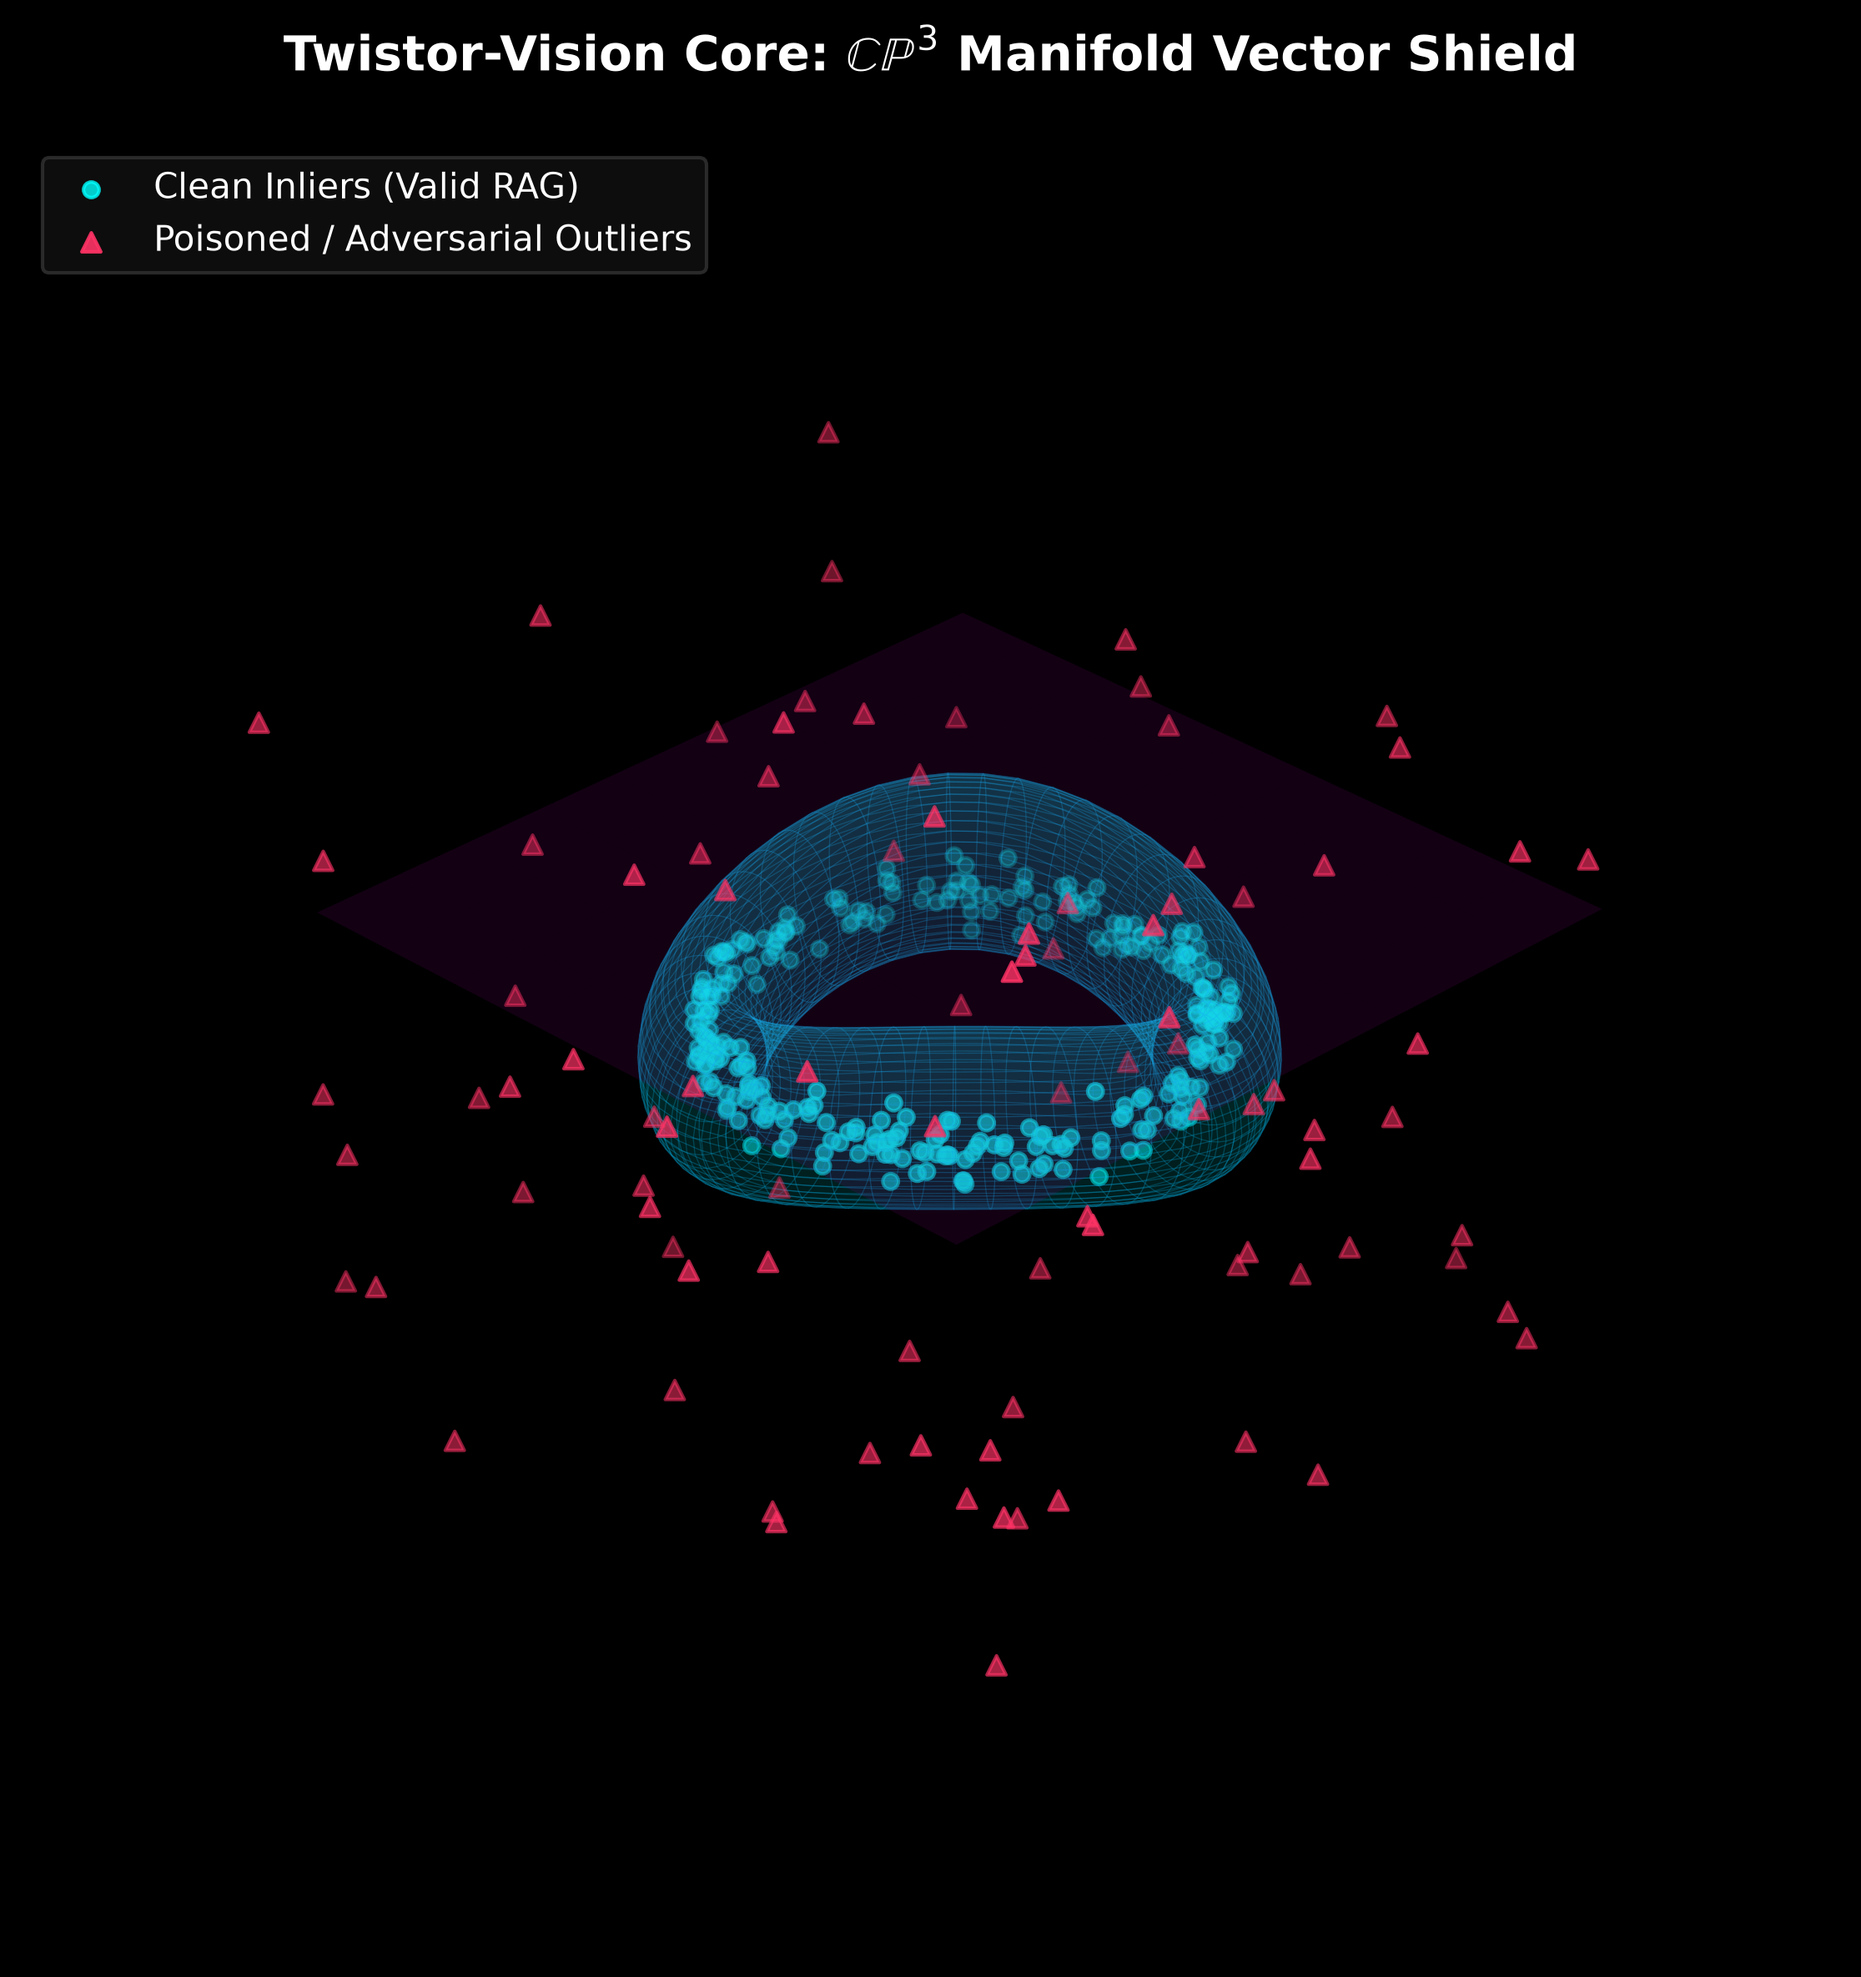
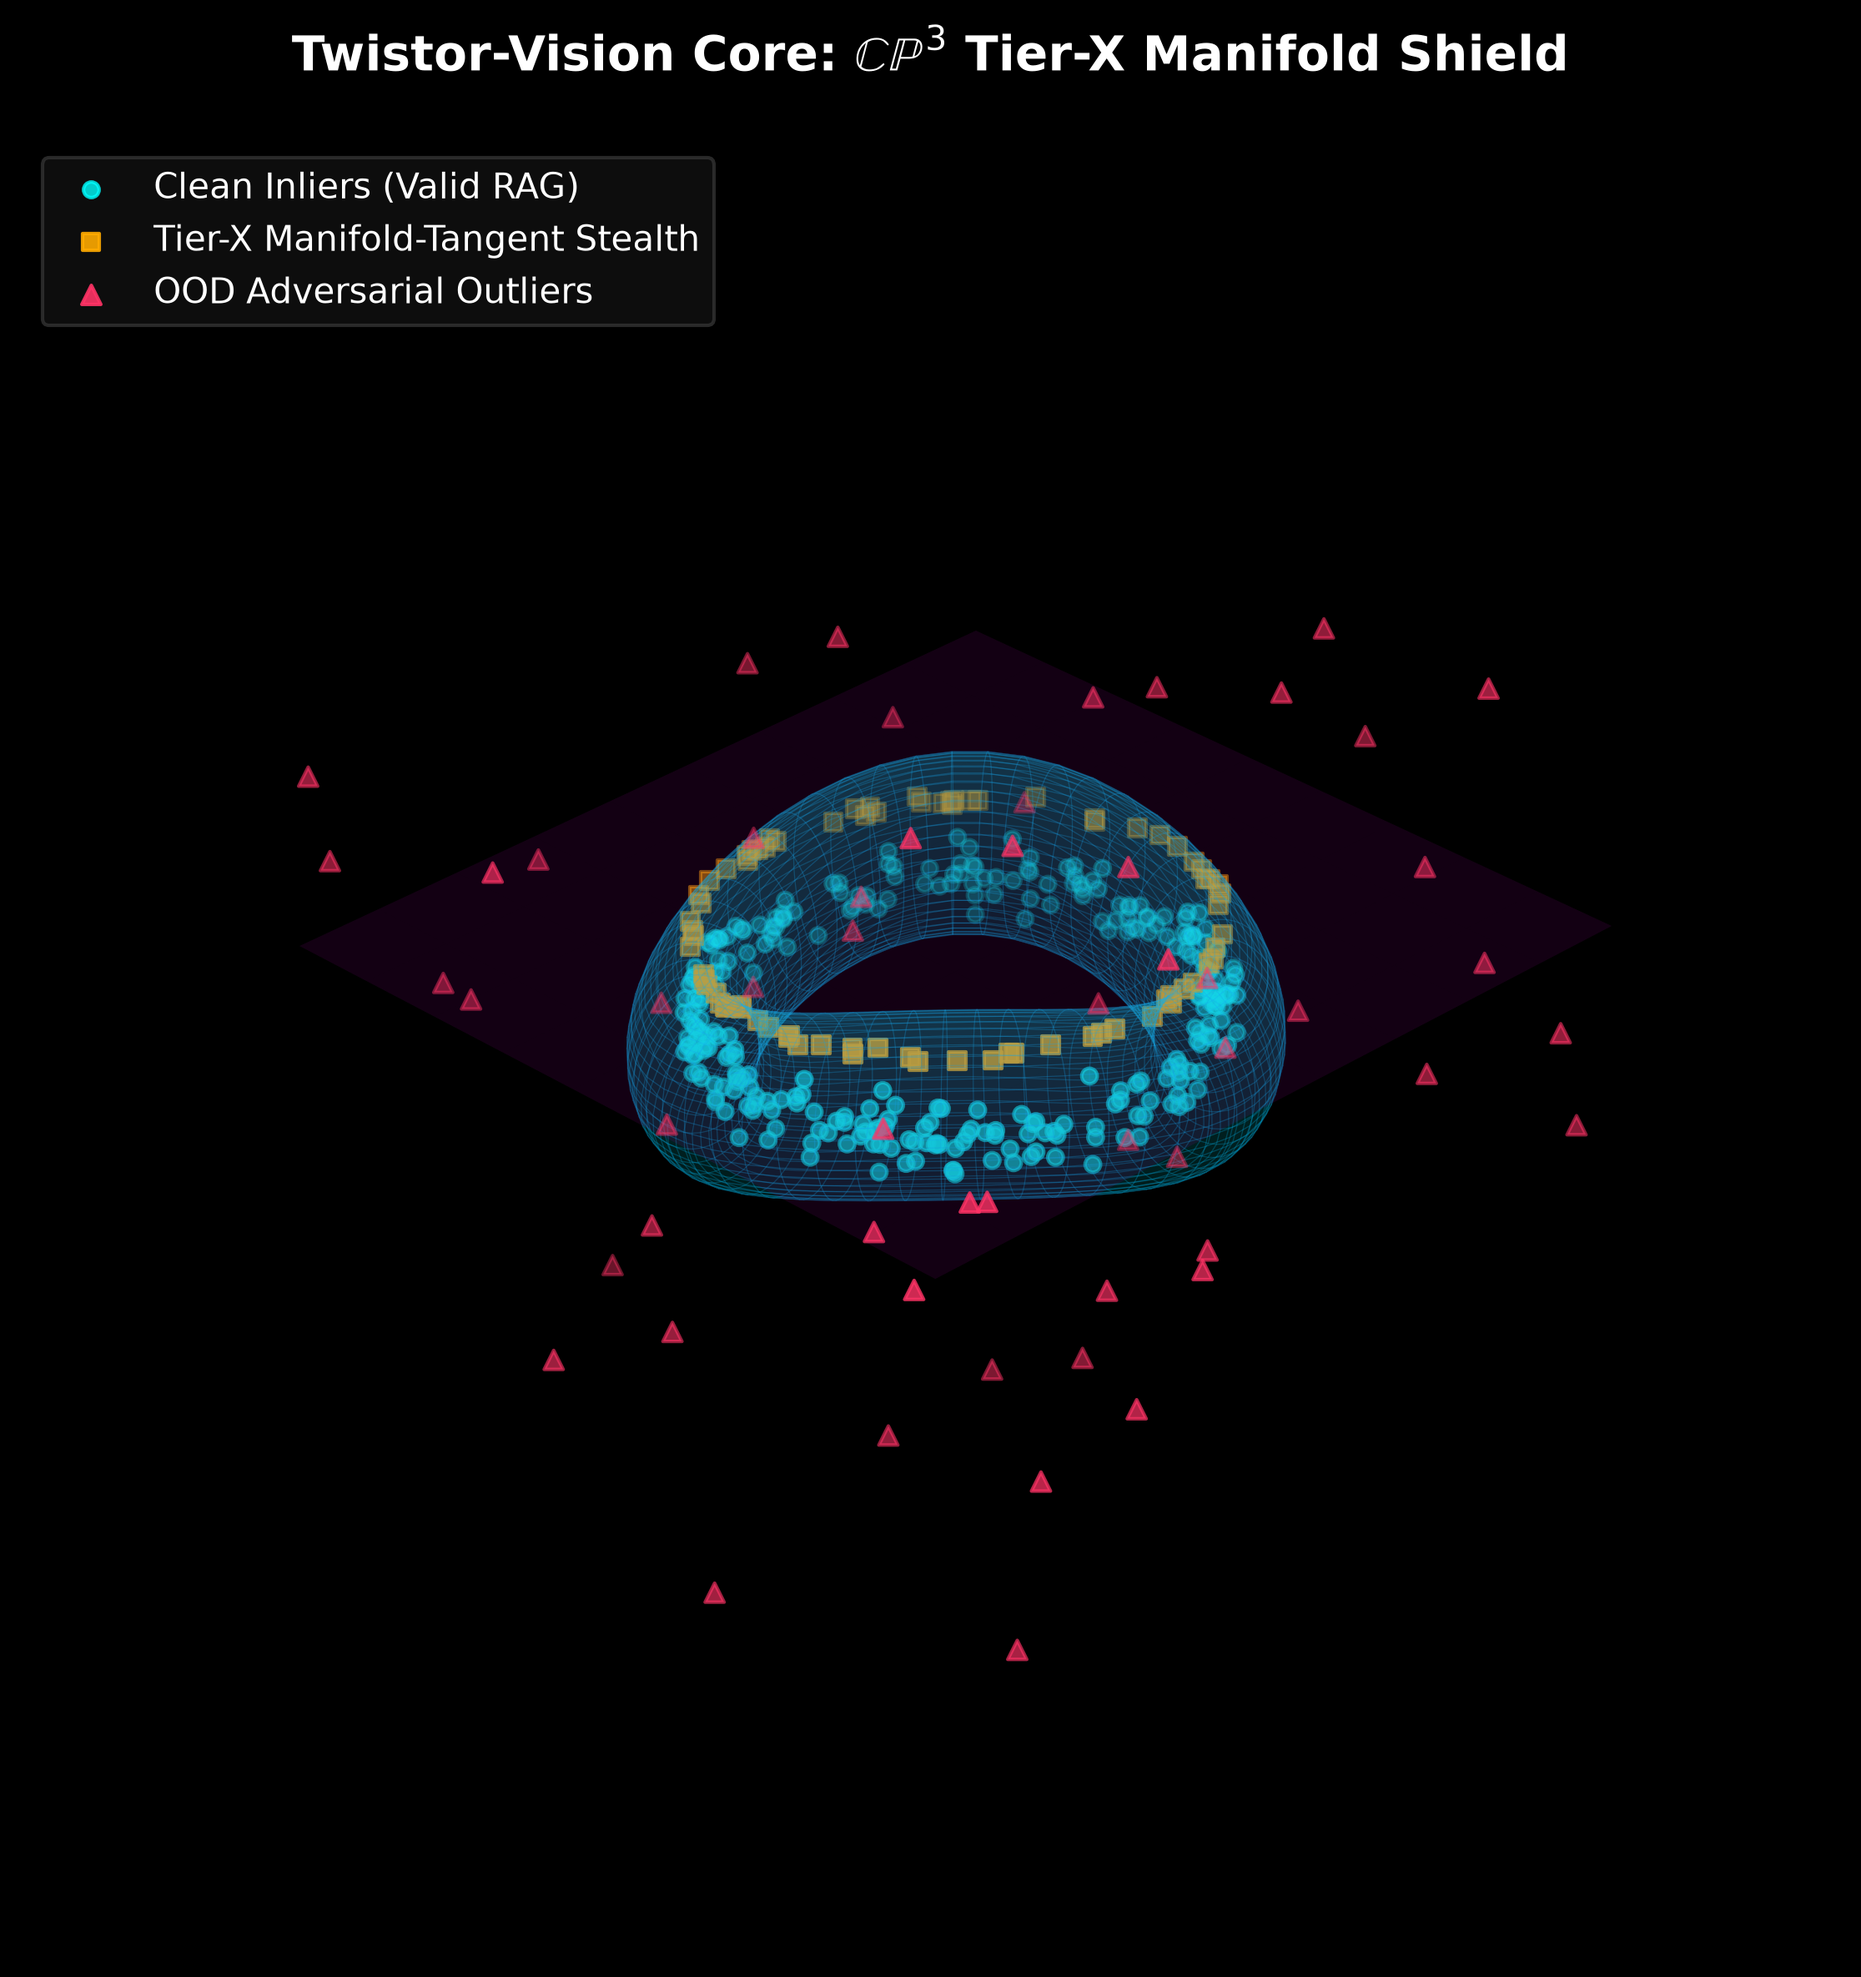
fix: update 3D shield graphic with Tier-X manifold-tangent stealth vectors

diff --git a/generate_shield_viz.py b/generate_shield_viz.py
@@ -35,7 +35,7 @@ def generate_manifold_visualization():
     xx, yy = np.meshgrid(np.linspace(-3.5, 3.5, 10), np.linspace(-3.5, 3.5, 10))
     ax.plot_surface(xx, yy, np.zeros_like(xx) + 0.4, color='magenta', alpha=0.1, edgecolor='none')
 
-    ax.set_title(r"Twistor-Vision Core: $\\mathbb{CP}^3$ Tier-X Manifold Shield", fontsize=14, color='white', pad=20, fontweight='bold')
+    ax.set_title(r"Twistor-Vision Core: $\mathbb{CP}^3$ Tier-X Manifold Shield", fontsize=14, color='white', pad=20, fontweight='bold')
     ax.axis('off')
     ax.view_init(elev=30, azim=45)
     leg = ax.legend(loc='upper left', frameon=True, facecolor='#111111', edgecolor='#333333')
